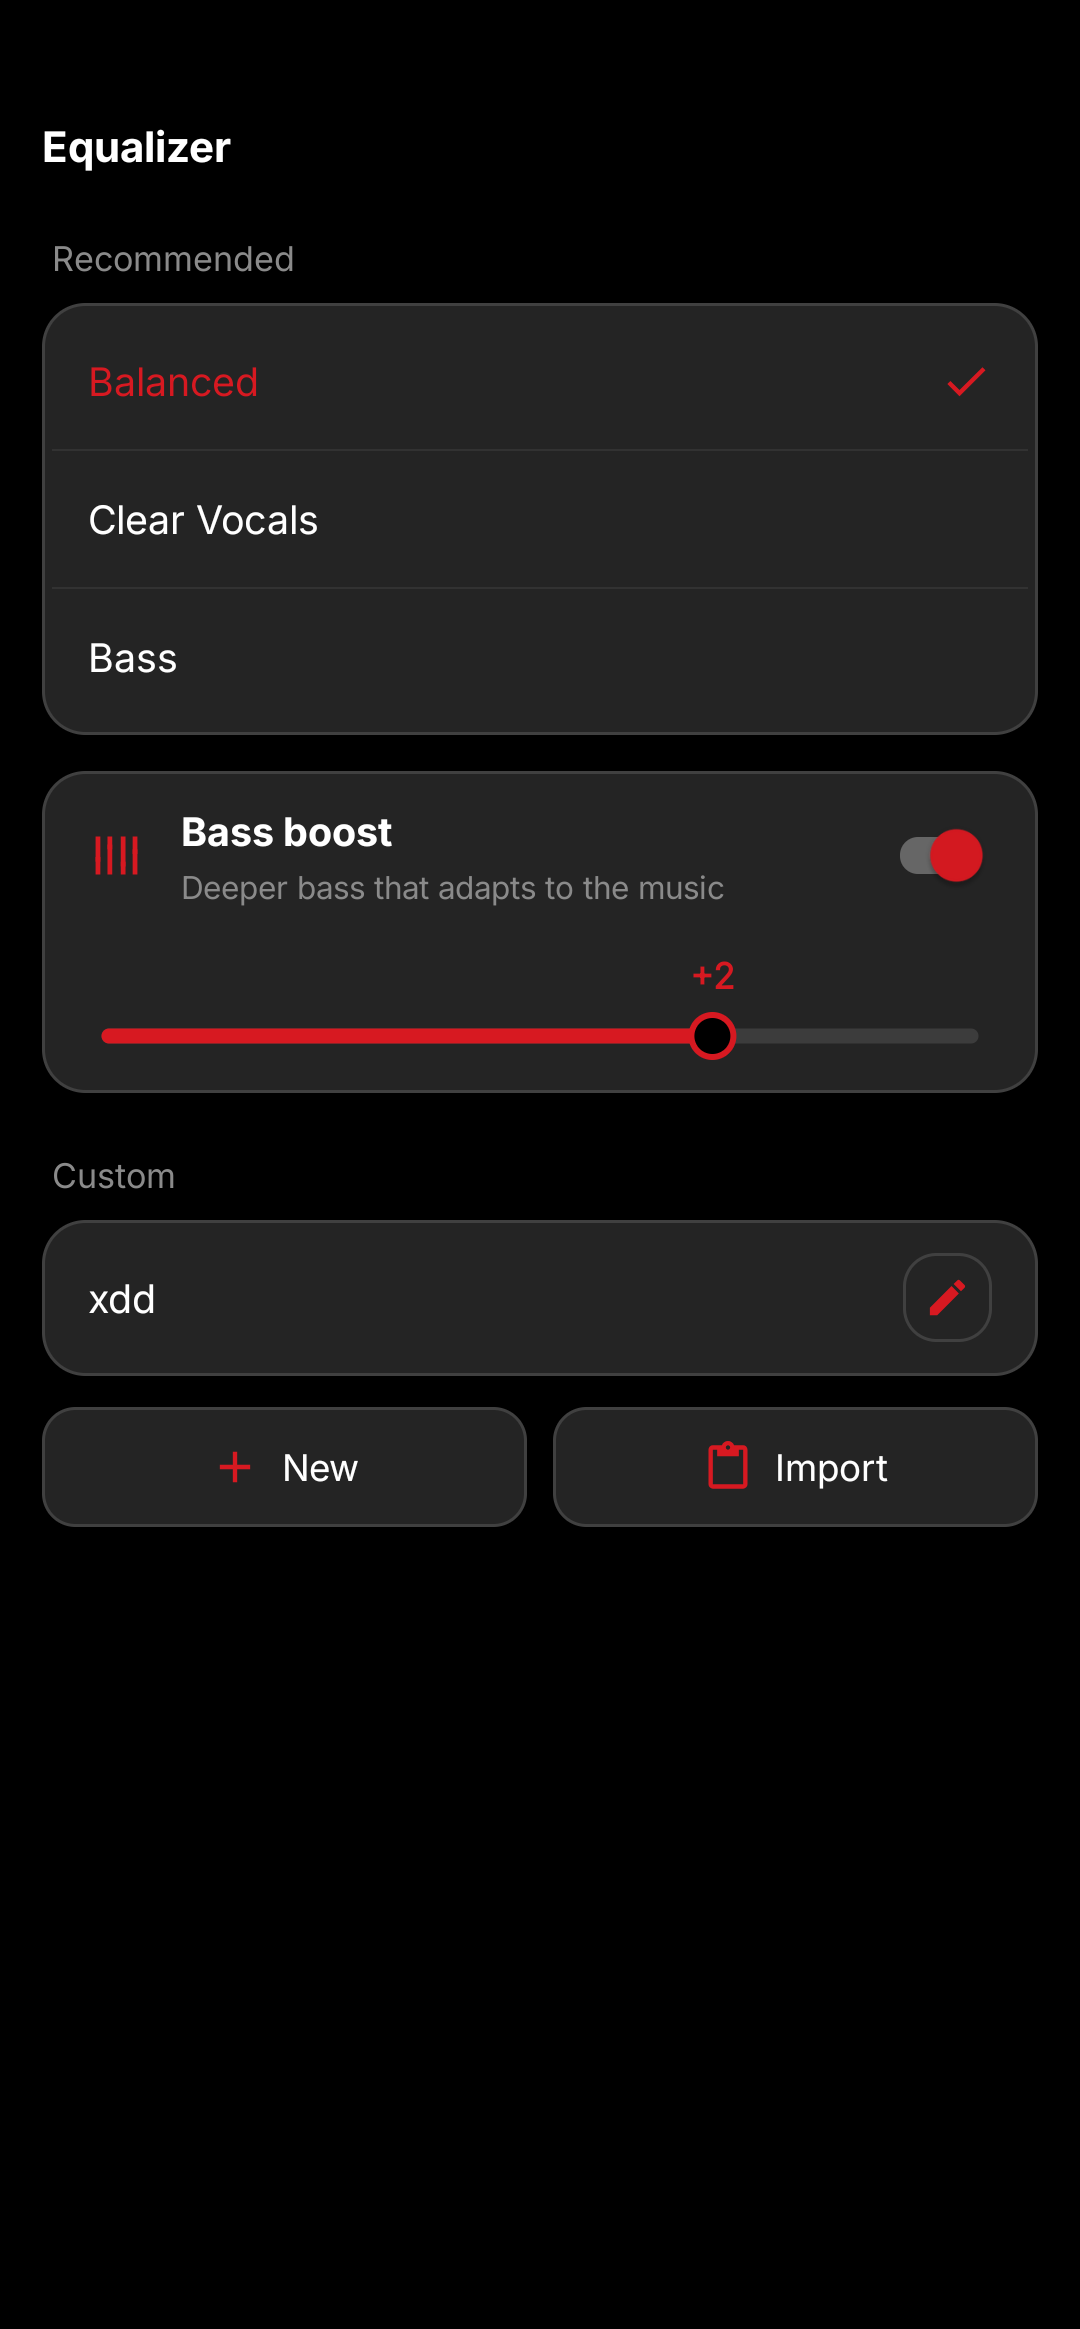
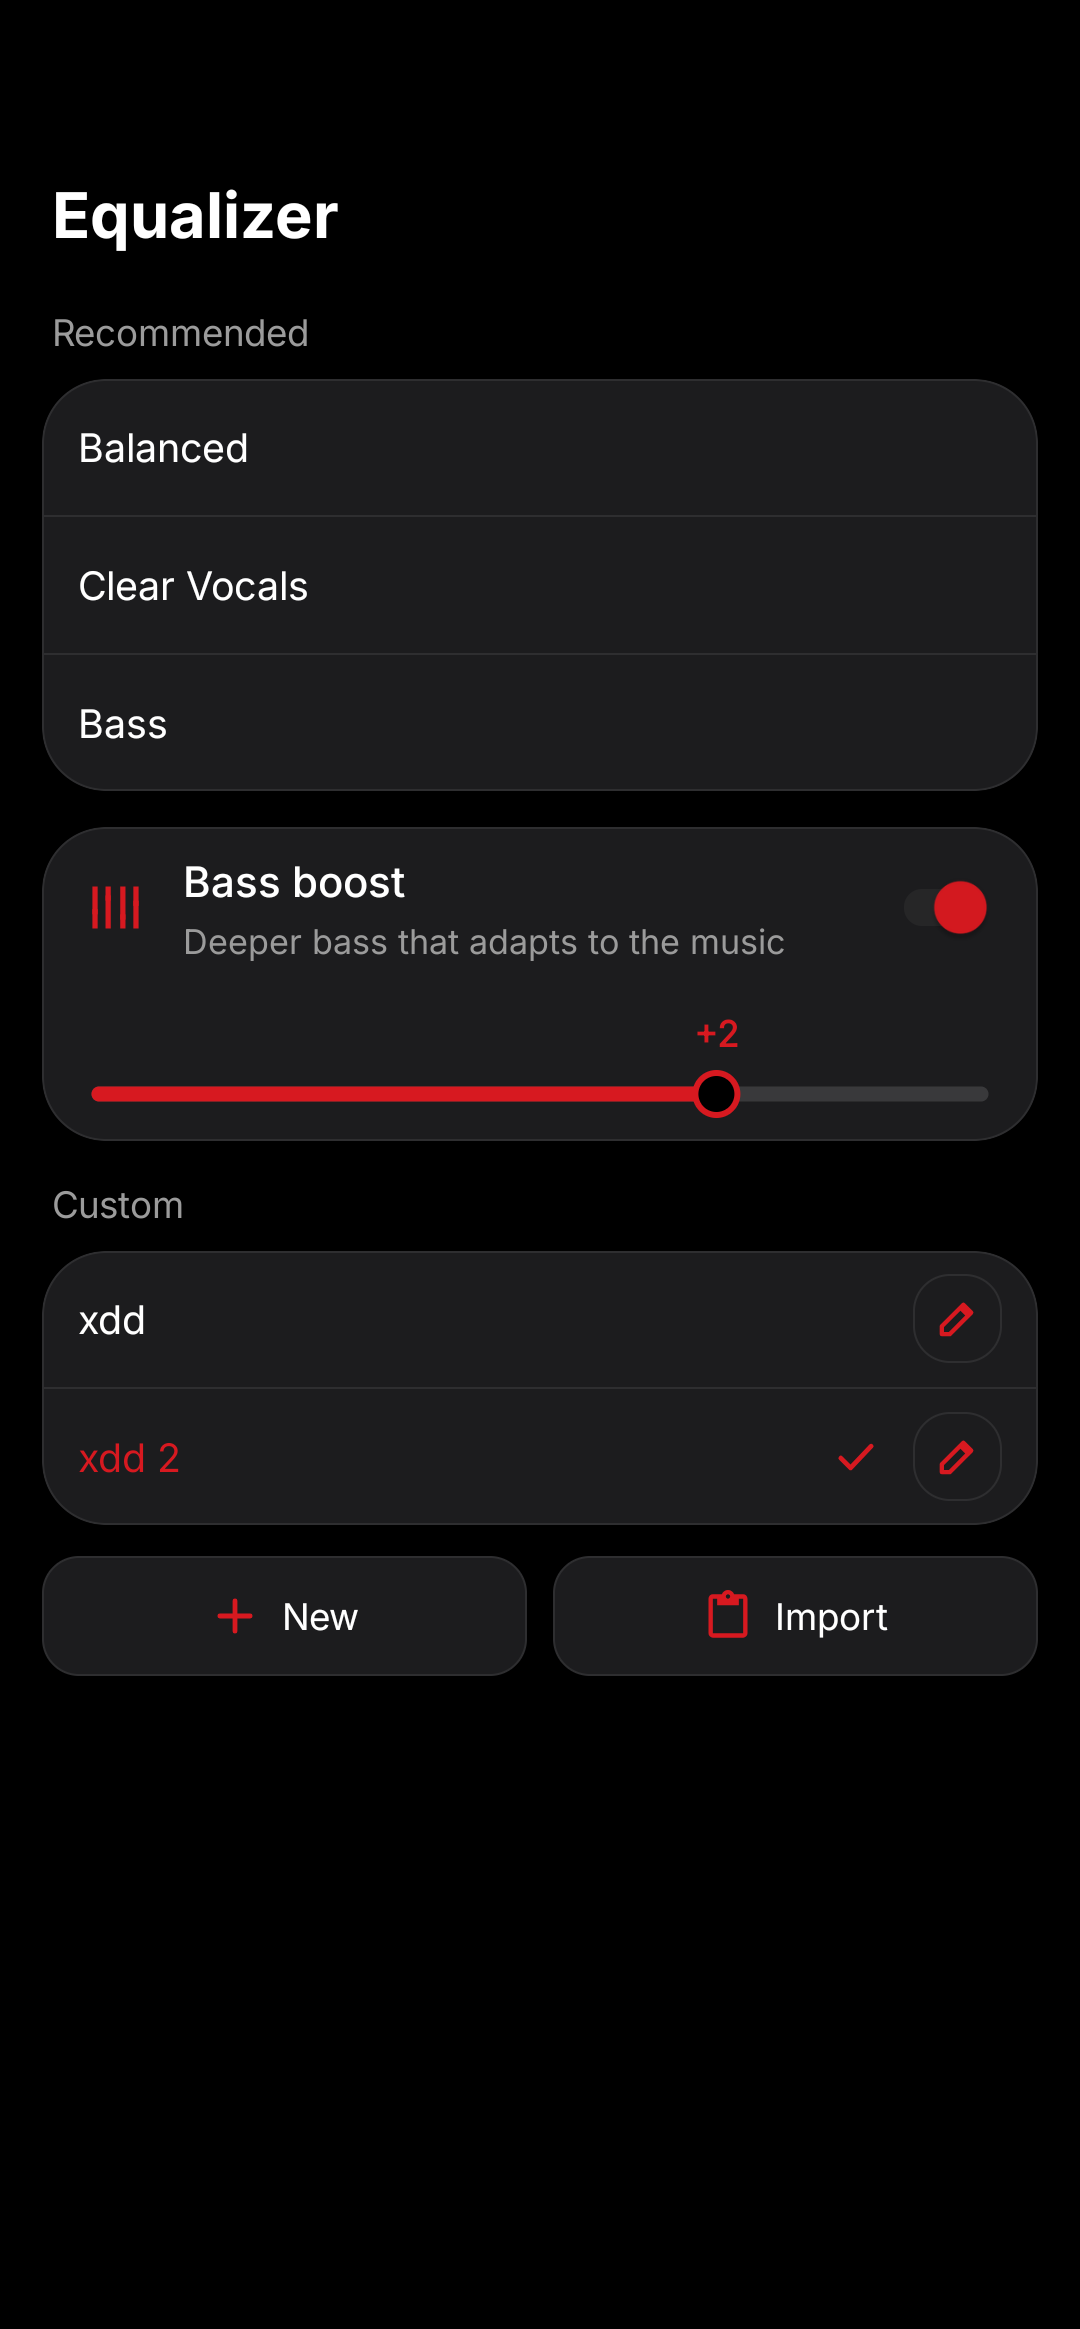
README: screenshots of every screen and all four widgets
scripts/readme-screenshots.sh now opens every screen (no toggles),
returns to the main screen with CLEAR_TOP instead of a force stop, and
crops each widget size from the last home screen page.

Changed region(s): [[0.0306, 0.0618, 0.9778, 0.7419]]

diff --git a/README.md b/README.md
@@ -13,9 +13,31 @@ home-screen widget.
 
 <!-- Retaken with scripts/readme-screenshots.sh; see CLAUDE.md. -->
 
-| Main screen | Equalizer | Curve editor | Earbud gestures | Widget |
-| :---: | :---: | :---: | :---: | :---: |
-| <img src="docs/screenshots/main.png" width="200"> | <img src="docs/screenshots/eq.png" width="200"> | <img src="docs/screenshots/eq-curve.png" width="200"> | <img src="docs/screenshots/controls.png" width="200"> | <img src="docs/screenshots/widget.png" width="200"> |
+| Main screen | Equalizer | Curve editor | Earbud settings |
+| :---: | :---: | :---: | :---: |
+| <img src="docs/screenshots/main.png" width="200"> | <img src="docs/screenshots/eq.png" width="200"> | <img src="docs/screenshots/eq-edit.png" width="200"> | <img src="docs/screenshots/earbuds.png" width="200"> |
+
+| Earbud gestures | Wear detection | Find my earbuds | Dual connection |
+| :---: | :---: | :---: | :---: |
+| <img src="docs/screenshots/gestures.png" width="200"> | <img src="docs/screenshots/wear.png" width="200"> | <img src="docs/screenshots/find.png" width="200"> | <img src="docs/screenshots/dual.png" width="200"> |
+
+| Settings | Theme & colors | Edit preset | Home layout |
+| :---: | :---: | :---: | :---: |
+| <img src="docs/screenshots/settings.png" width="200"> | <img src="docs/screenshots/theme.png" width="200"> | <img src="docs/screenshots/preset.png" width="200"> | <img src="docs/screenshots/home-layout.png" width="200"> |
+
+| Widget settings | App update | About |
+| :---: | :---: | :---: |
+| <img src="docs/screenshots/widget-settings.png" width="200"> | <img src="docs/screenshots/update.png" width="200"> | <img src="docs/screenshots/about.png" width="200"> |
+
+### Widgets
+
+| Battery 2x2 | Controls 2x2 |
+| :---: | :---: |
+| <img src="docs/screenshots/widget-battery.png" width="200"> | <img src="docs/screenshots/widget-controls.png" width="200"> |
+
+| Combined 3x2 | Combined 3x3 |
+| :---: | :---: |
+| <img src="docs/screenshots/widget-combined.png" width="300"> | <img src="docs/screenshots/widget-large.png" width="300"> |
 
 ## Features
 

diff --git a/CLAUDE.md b/CLAUDE.md
@@ -445,10 +445,10 @@ a shared one hung.
 - Runtime `*.log` files written by the app are ignored — they are regenerated every run. Handed-over
   captures (`*.log.txt`) are evidence and **are** tracked.
 - **README screenshots** live in `docs/screenshots/` and are retaken with
-  `scripts/readme-screenshots.sh [adb-serial]` (buds connected, Pillow installed). It taps through
-  the app by visible text, so renaming a row label or `eq_edit` breaks it. It stops mobile-mcp's
+  `scripts/readme-screenshots.sh [adb-serial]` (buds connected, phone in English, Pillow installed). It
+  opens every screen by visible text (never toggles anything), so renaming a row or screen label breaks it. It stops mobile-mcp's
   device server first, because that holds UiAutomation and `uiautomator dump` then dies with exit 137.
-  `widget.png` is taken only if the widget is on the home screen, cropped to the widget alone.
+  Widgets: each placed size on the LAST home screen page is cropped to `widget-<size>.png`.
 - Root holds only `README.md`, `LICENSE` and `CLAUDE.md` (it must stay in root to load automatically).
   Every other doc lives in `docs/`: `ROADMAP.md`, `ROADMAP-DONE.md`, `PROTOCOL.md`,
   `PACKET-CAPTURE.md` (`[USER]` 2026-09-25). `LICENSE` is the verbatim GPL-3.0 text; the copyright
